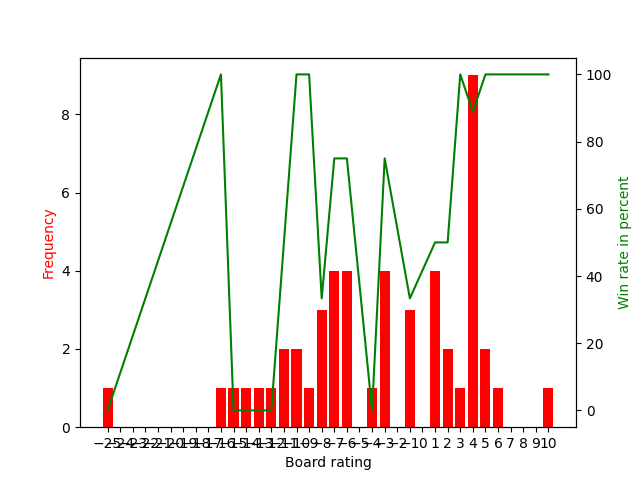
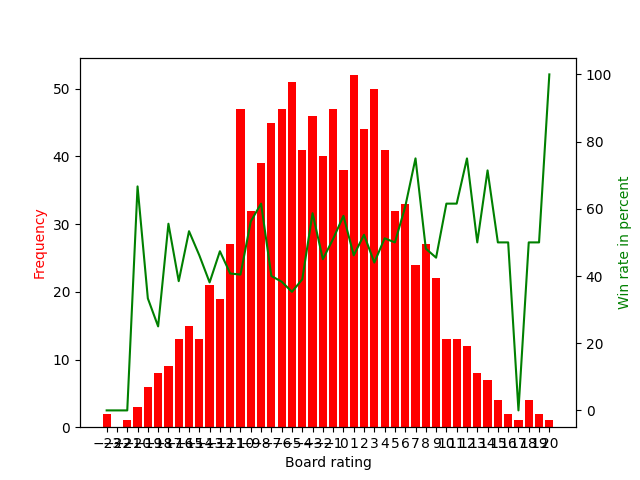
Minor changes, backup

diff --git a/src/pokemon/bot/evaluation/unfair_matches/unfair_matches.py b/src/pokemon/bot/evaluation/unfair_matches/unfair_matches.py
@@ -98,6 +98,10 @@ class Collector:
         logger.info(f'Plotting results!')
         logger.info(self.results)
         fig, ax = plt.subplots()
+
+        game_count = sum([t[0] + t[1] for t in self.results.values()])
+        logger.info(f'Plotting graph with results of {game_count} games!')
+
         ax.bar([t for t in self.results.keys()], [t[0] + t[1] for t in self.results.values()], color='red')
         plt.xticks(np.arange(min([t for t in self.results.keys()]), max([t for t in self.results.keys()]) + 1, 1.0))
         ax.set_ylabel("Frequency", color='red')
@@ -130,18 +134,19 @@ class SendingPlayer1(Player):
             collector.add_team_info([clone_pokemon(p, build_from_pokemon(p)) for p in battle.team.values()],
                                     self.username)
 
-        def estimate_move_damage(move: Move) -> float:
-            type_mod = move.type.damage_multiplier(battle.opponent_active_pokemon.type_1,
-                                                   battle.opponent_active_pokemon.type_2)
-            return move.base_power * type_mod
-
-        if battle.available_moves:
-            return self.create_order(max(battle.available_moves, key=lambda move: estimate_move_damage(move)))
-        elif len(battle.available_switches) > 0:
-            return self.create_order(max(battle.available_switches, key=lambda pokemon:
-            max(pokemon.moves, key=lambda move: estimate_move_damage(Move(move)))))
-        else:
-            return self.choose_random_move(battle)
+        return self.choose_random_move(battle)
+        # def estimate_move_damage(move: Move) -> float:
+        #     type_mod = move.type.damage_multiplier(battle.opponent_active_pokemon.type_1,
+        #                                            battle.opponent_active_pokemon.type_2)
+        #     return move.base_power * type_mod
+        #
+        # if battle.available_moves:
+        #     return self.create_order(max(battle.available_moves, key=lambda move: estimate_move_damage(move)))
+        # elif len(battle.available_switches) > 0:
+        #     return self.create_order(max(battle.available_switches, key=lambda pokemon:
+        #     max(pokemon.moves, key=lambda move: estimate_move_damage(Move(move)))))
+        # else:
+        #     return self.choose_random_move(battle)
 
 
 async def main():
@@ -164,14 +169,15 @@ async def main():
                  or p2.n_won_battles == 1 and p2.username == 'SendingPlayer1 1'
         games_won_p1 += p1_won
 
-        if i % 1000 == 0:
-            collector.store_results()
-
         collector.evaluate_teams(p1_won)
         p1.reset_battles()
         p2.reset_battles()
 
         logger.info(f'\n\n\nPlayed: {i}\n\n\n')
+
+        if i % 1000 == 1 and i > 1 or i == 10 or i == 100:
+            collector.store_results()
+            collector.plot_results()
 
     logger.info(f'{games_won_p1=}')
 

diff --git a/src/pokemon/bot/evaluation/states_calculator/calculate_states.py b/src/pokemon/bot/evaluation/states_calculator/calculate_states.py
@@ -1,0 +1,7 @@
+from src.pokemon import logger
+
+def main():
+    logger.info(f'Calculating amout of game states.')
+
+if __name__ == "__main__":
+    main()
